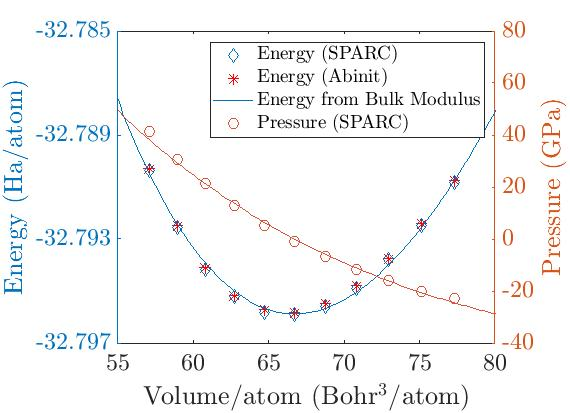
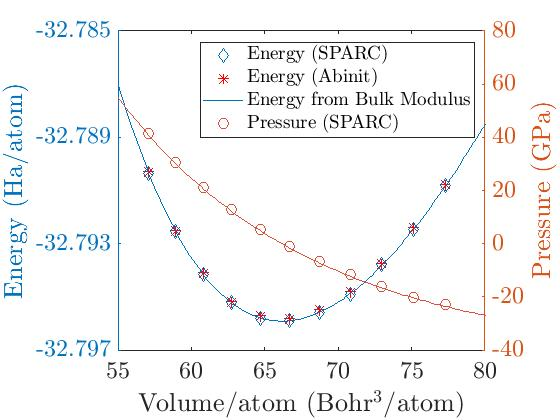
NIC2O4 fit

diff --git a/test_results_accuracy/NiC2O4/plotFigure_fitEnergy2.m b/test_results_accuracy/NiC2O4/plotFigure_fitEnergy2.m
@@ -1,11 +1,10 @@
 load('dataSetCorrect2.mat');
-% volume = [701.66843693	749.49354159	799.44386423	851.56560524	905.90496501	962.50814394	1021.4213424	1082.6907608	1146.3625996	1212.483059	1281.0983396];
 volume = [799.443864	825.230420	851.565605	878.455195	905.904965	933.920690	962.508144	991.673103	1021.421342	1051.758637	1082.690761];
 volume_interp = linspace(700, 1250, 200);
-% energyAbinit = [energyAbinit(3:5),energyAbinit(7:9)];
-% energySPARC = [energySPARC(3:5),energySPARC(7:9)];
-% pressureSPARC = [pressureSPARC(3:5),pressureSPARC(7:9)];
+
 [SPARCfitResult] = fittingEnergy(energySPARC, volume);
+[AbinitfitResult] = fittingEnergy(energyAbinit, volume);
+
 yyaxis left;
 curve3 = plot(volume/14,energyAbinit,'*','color','r','MarkerSize',8);
 hold on;
@@ -15,6 +14,11 @@ SPARCFitEnergy = SPARCfitResult(volume_interp)/14;
 curve5 = plot(volume_interp/14,SPARCFitEnergy,'-','color','#0072BD','MarkerSize',8);
 SPARCB0 = SPARCfitResult.a;
 SPARCdB0 = SPARCfitResult.b;
+SPARCE = SPARCfitResult.c;
+SPARCV0 = SPARCfitResult.d;
+
+AbinitE = AbinitfitResult.c;
+AbinitV0 = AbinitfitResult.d;
 hold on;
 axis([55 80 -32.797 -32.785]);
 yticks([-32.797 -32.793 -32.789 -32.785]);
@@ -23,7 +27,7 @@ ylabel('Energy (Ha/atom)','Interpreter','latex');
 yyaxis right;
 curve2 = plot(volume/14,pressureSPARC,'o','color','#D95139','MarkerSize',8);
 hold on;
-SPARCFitPres = (3/2*SPARCB0*((933.92068956./volume_interp).^(7/3)-(933.92068956./volume_interp).^(5/3)).*(1+3/4*(SPARCdB0-4)*((933.92068956./volume_interp).^(2/3)-1))) * 29421.0264843896;
+SPARCFitPres = (3/2*SPARCB0*((SPARCV0./volume_interp).^(7/3)-(SPARCV0./volume_interp).^(5/3)).*(1+3/4*(SPARCdB0-4)*((SPARCV0./volume_interp).^(2/3)-1))) * 29421.0264843896;
 plot(volume_interp/14,SPARCFitPres,'-','color','#D95139','MarkerSize',8);
 hold on;
 axis([55 80 -40 80]);

diff --git a/test_results_accuracy/NiC2O4/fittingEnergy.m b/test_results_accuracy/NiC2O4/fittingEnergy.m
@@ -23,11 +23,10 @@ function [fitresult, gof] = createFit(volume, energy)
 [xData, yData] = prepareCurveData( volume, energy);
 
 % Set up fittype and options.
-% ft = fittype( '3/2*a*((905.90496501/x)^(7/3)-(905.90496501/x)^(5/3))*(1+3/4*(b-4)*((905.90496501/x)^(2/3)-1))', 'independent', 'x', 'dependent', 'y' );
-ft = fittype( '-459.142241012 + 9*933.92068956*a/16*(((x/933.92068956)^(2/3)-1).^3 * b + (((x/933.92068956).^(2/3)-1).^2).*(6-4*(x/933.92068956).^(2/3)))', 'independent', 'x', 'dependent', 'y' );
+ft = fittype( '-c + 9*d*a/16*(((d/x)^(2/3)-1).^3 * b + (((d/x).^(2/3)-1).^2).*(6-4*(d/x).^(2/3)))', 'independent', 'x', 'dependent', 'y' );
 opts = fitoptions( 'Method', 'NonlinearLeastSquares' );
 opts.Display = 'Off';
-opts.StartPoint = [0.0061 4.146];
+opts.StartPoint = [0.0061 4.146 -459.142241012 933.92068956];
 
 % Fit model to data.
 [fitresult, gof] = fit( xData, yData, ft, opts );
